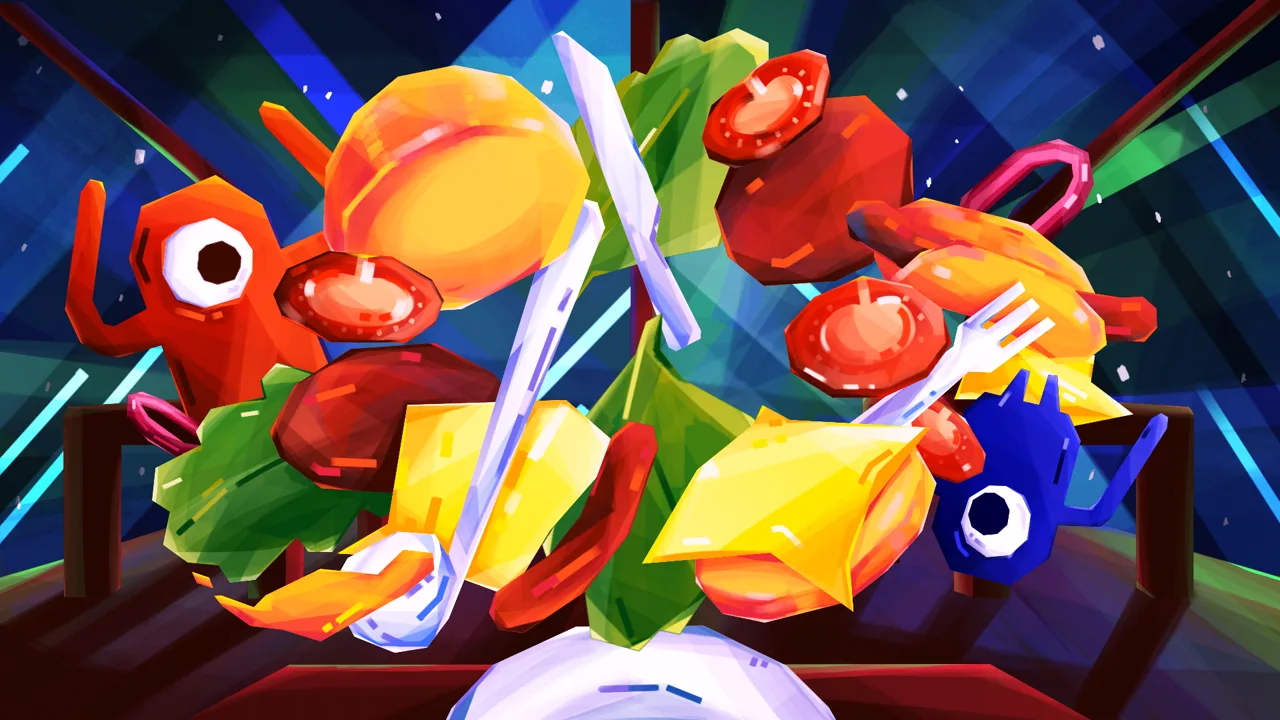
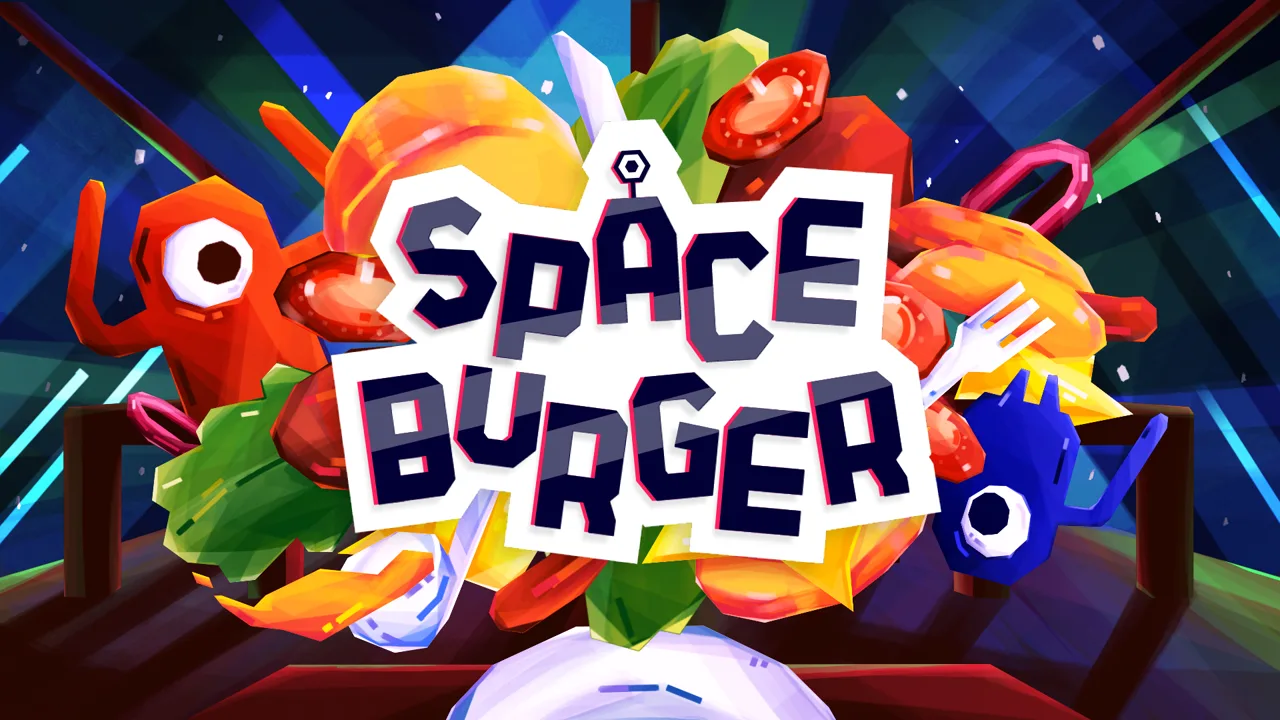
Fix the hero poster and use the right capsule art
The hero video borrowed its poster from the Space Burger thumbnail, so the
capsule art flashed on the home page before the reel started playing. The reel
now has its own poster, a frame taken from its first second, which also serves
as the default share image instead of a game's key art.

The capsule art is the version with the logo, not the plain illustration.
Sources renamed so the two stop being confused.

Changed region(s): [[0.25, 0.1528, 0.75, 0.7944]]

diff --git a/src/content/projects/zero-g-chef.md b/src/content/projects/zero-g-chef.md
@@ -10,8 +10,7 @@ poster: /media/zero-g-chef/shot-01.webp
 # Screenshots en plus (le poster ci-dessus est deja affiche en grand).
 # Deposer les fichiers dans public/media/zero-g-chef/ puis les lister ici :
 #   - /media/zero-g-chef/shot-02.png
-gallery:
-  - /media/zero-g-chef/capsule.webp
+gallery: []
 links: []
 accent: '#6ee36e'
 order: 1
